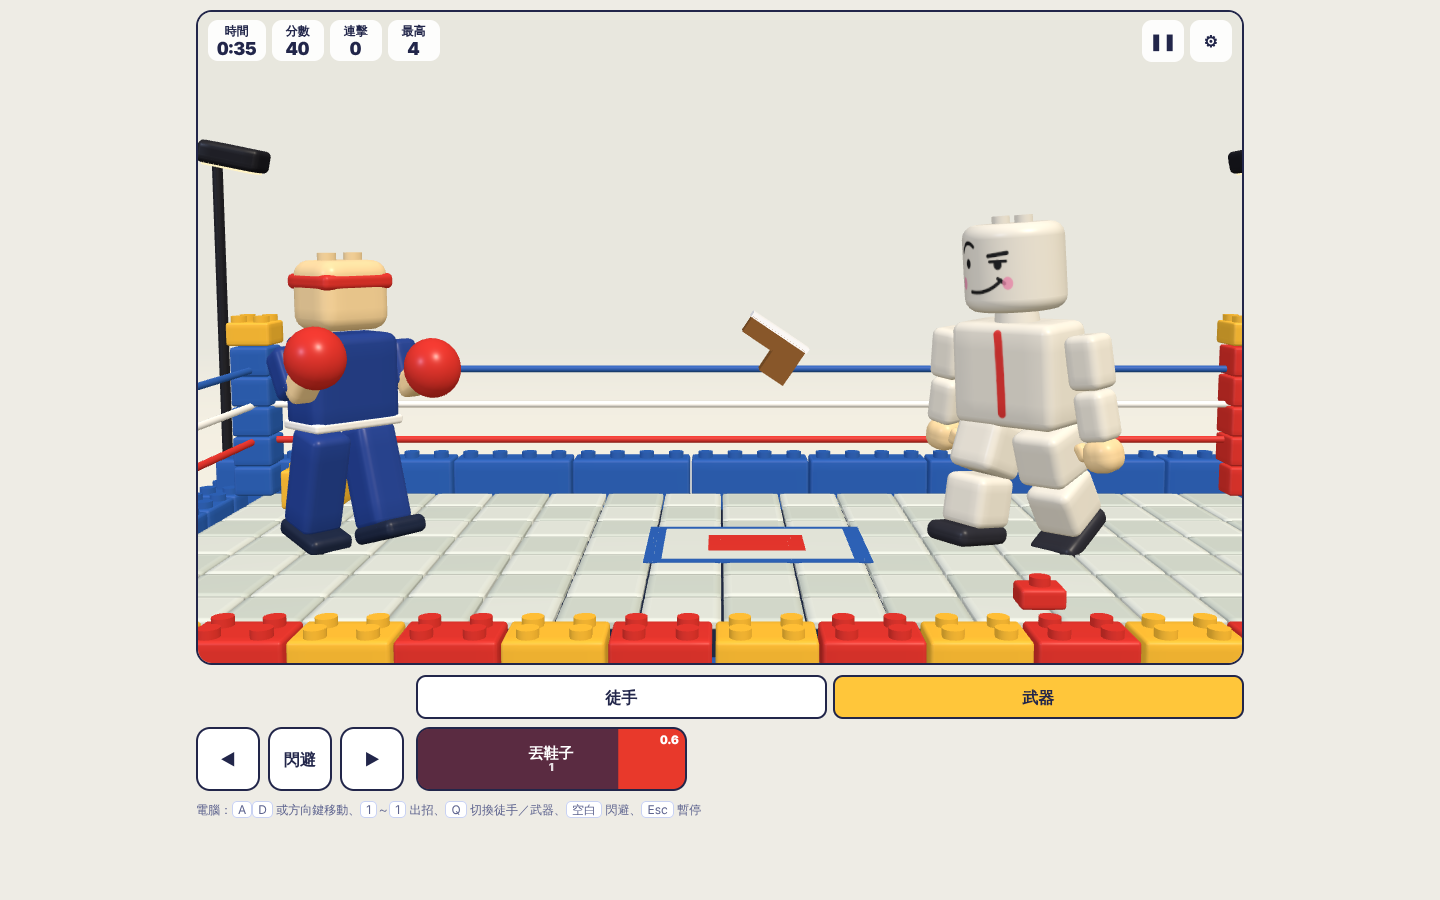
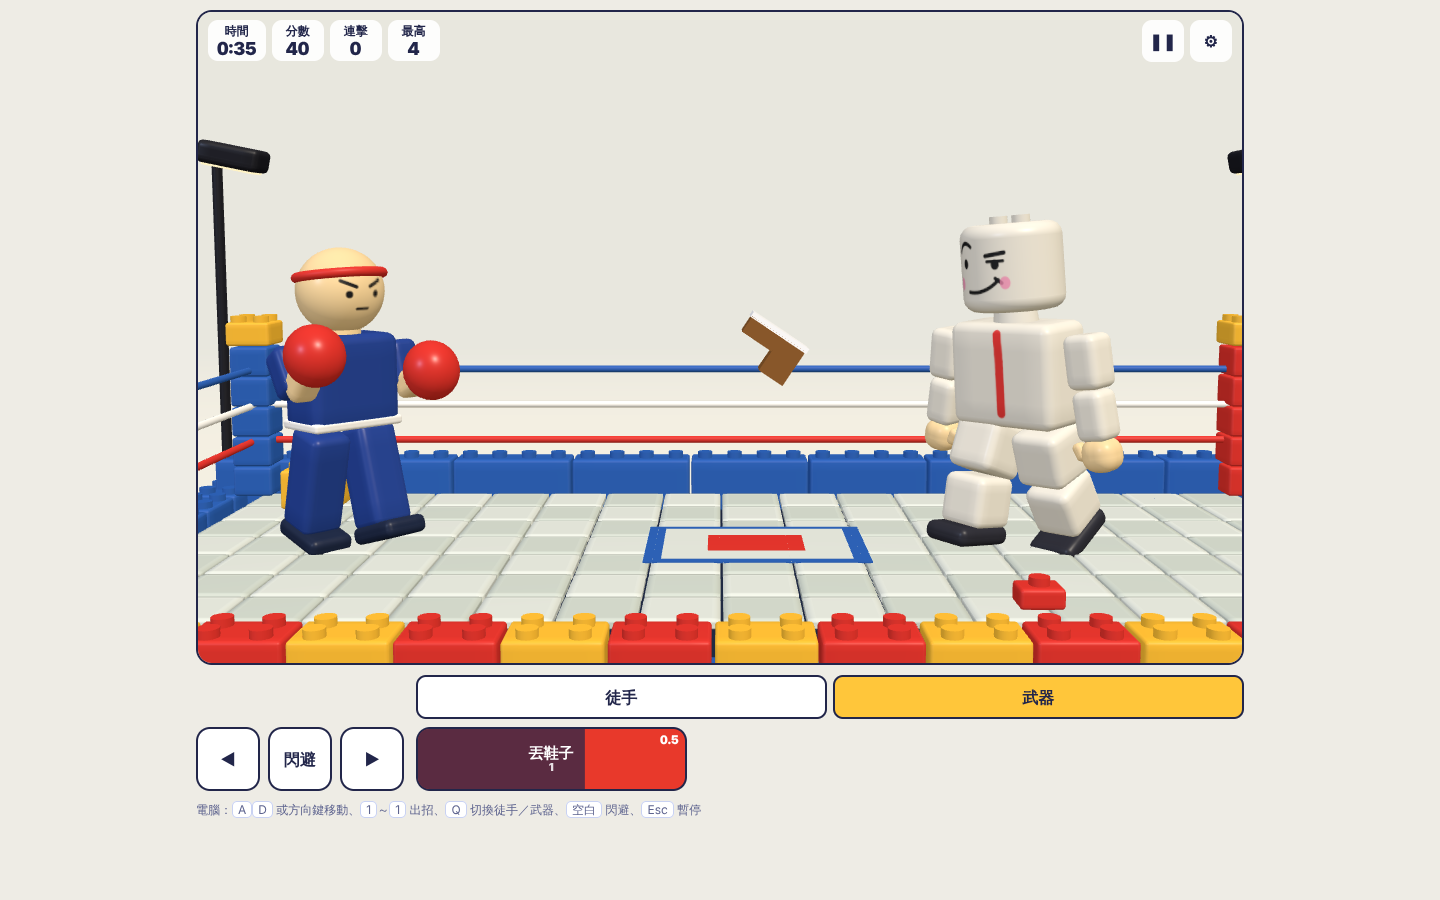
玩家球形頭與正義臉；一鍵隨機造型；復原紀錄壓縮單色面
Claude-Session: https://claude.ai/code/session_01W9KMAiYuezKnkxaZ7ikoB8

diff --git a/src/game/puppet/paintSurface.ts b/src/game/puppet/paintSurface.ts
@@ -5,7 +5,7 @@ import { History } from './history';
 import { DESIGN_SIZES, PAINT_PARTS, PART_DEFS, partFaceDims, type PaintPartId } from './parts';
 import { atlasHeight, atlasWidth, cellOrigin, DEFAULT_LAYOUT, faceDims, FACES, type Face, type FacePoint } from './faces';
 import type { AccessoryId, AccessorySlot } from './looks/accessories';
-import { lookById } from './looks/presets';
+import { lookById, looksOf, type LookPreset } from './looks/presets';
 
 export interface Surface {
   part: PaintPartId;
@@ -25,7 +25,9 @@ export interface BrushSpec {
 type FaceKey = `${PaintPartId}:${Face}`;
 type AccKey = `acc:${AccessorySlot}`;
 type HistKey = FaceKey | AccKey;
-type HistData = ImageData | AccessoryId | null;
+/** 整面同一色時只記顏色，大幅減少復原紀錄的記憶體 */
+type Solid = { solid: string };
+type HistData = ImageData | Solid | AccessoryId | null;
 export type AccessoryState = Record<AccessorySlot, AccessoryId | null>;
 
 /**
@@ -61,7 +63,7 @@ export class PaintStore {
       (key) => (isAcc(key) ? this.accessories[slotOf(key)] : this.captureFace(key)),
       (key, data) => {
         if (isAcc(key)) this.setAccessory(slotOf(key), data as AccessoryId | null);
-        else this.restoreFace(key, data as ImageData);
+        else this.restoreFace(key, data as ImageData | Solid);
       },
     );
   }
@@ -97,16 +99,29 @@ export class PaintStore {
     return [p as PaintPartId, Number(f) as Face];
   }
 
-  private captureFace(key: FaceKey): ImageData {
+  private captureFace(key: FaceKey): ImageData | Solid {
     const [part, f] = this.parse(key);
     const r = this.faceRect(f);
-    return this.surfaces[part].ctx.getImageData(r.x, r.y, r.w, r.h);
+    const img = this.surfaces[part].ctx.getImageData(r.x, r.y, r.w, r.h);
+    const d = img.data;
+    let same = true;
+    for (let i = 4; i < d.length; i += 4)
+      if (d[i] !== d[0] || d[i + 1] !== d[1] || d[i + 2] !== d[2] || d[i + 3] !== d[3]) {
+        same = false;
+        break;
+      }
+    if (same) return { solid: `rgba(${d[0]},${d[1]},${d[2]},${d[3] / 255})` };
+    return img;
   }
 
-  private restoreFace(key: FaceKey, data: ImageData) {
+  private restoreFace(key: FaceKey, data: ImageData | Solid) {
     const [part, f] = this.parse(key);
     const r = this.faceRect(f);
-    this.surfaces[part].ctx.putImageData(data, r.x, r.y);
+    const ctx = this.surfaces[part].ctx;
+    if ('solid' in data) {
+      ctx.fillStyle = data.solid;
+      ctx.fillRect(r.x, r.y, r.w, r.h);
+    } else ctx.putImageData(data, r.x, r.y);
     this.markDirty(part);
     this.touched.add(key);
   }
@@ -174,12 +189,20 @@ export class PaintStore {
   applyLook(id: string) {
     const look = lookById(id);
     if (!look) return;
-    const faceKeys: FaceKey[] = [];
+    this.history.record([...this.lookKeys(look), `acc:${look.kind}`]);
+    this.drawLook(look);
+    this.emit();
+  }
+
+  private lookKeys(look: LookPreset): FaceKey[] {
+    const keys: FaceKey[] = [];
     for (const part of Object.keys(look.paint) as PaintPartId[])
-      for (const f of Object.keys(look.paint[part]!).map(Number) as Face[]) faceKeys.push(`${part}:${f}`);
-    const accKey: AccKey = `acc:${look.kind}`;
-    this.history.record([...faceKeys, accKey]);
-    for (const k of faceKeys) {
+      for (const f of Object.keys(look.paint[part]!).map(Number) as Face[]) keys.push(`${part}:${f}`);
+    return keys;
+  }
+
+  private drawLook(look: LookPreset) {
+    for (const k of this.lookKeys(look)) {
       this.touched.add(k);
       const [part, f] = this.parse(k);
       const draw = look.paint[part]![f]!;
@@ -191,7 +214,31 @@ export class PaintStore {
       });
     }
     this.setAccessory(look.kind, look.accessory);
+  }
+
+  /**
+   * 一鍵隨機造型：先恢復空白，再隨機套一款臉、髮型、服裝（整個算 1 步，可復原）。
+   */
+  randomize(rand: () => number = Math.random) {
+    const pick = <T,>(list: T[]) => list[Math.floor(rand() * list.length)];
+    const chosen = (['face', 'hair', 'costume'] as const).map((k) => pick(looksOf(k)));
+    const keys = new Set<HistKey>([...this.touched, 'acc:face', 'acc:hair', 'acc:costume']);
+    for (const l of chosen) for (const k of this.lookKeys(l)) keys.add(k);
+    this.history.record([...keys]);
+    this.resetCanvases();
+    for (const l of chosen) this.drawLook(l);
     this.emit();
+    return chosen.map((l) => l.label);
+  }
+
+  private resetCanvases() {
+    for (const part of PAINT_PARTS) {
+      const s = this.surfaces[part];
+      s.ctx.fillStyle = PUPPET.baseColor;
+      s.ctx.fillRect(0, 0, s.canvas.width, s.canvas.height);
+      this.markDirty(part);
+    }
+    (['face', 'hair', 'costume'] as const).forEach((sl) => this.setAccessory(sl, null));
   }
 
   /** 拿掉某一類的 3D 配件（可復原）。 */
@@ -206,13 +253,7 @@ export class PaintStore {
   clearAll() {
     const keys: HistKey[] = [...this.touched, 'acc:face', 'acc:hair', 'acc:costume'];
     this.history.record(keys);
-    (['face', 'hair', 'costume'] as const).forEach((sl) => this.setAccessory(sl, null));
-    for (const part of PAINT_PARTS) {
-      const s = this.surfaces[part];
-      s.ctx.fillStyle = PUPPET.baseColor;
-      s.ctx.fillRect(0, 0, s.canvas.width, s.canvas.height);
-      this.markDirty(part);
-    }
+    this.resetCanvases();
     this.emit();
   }
 

diff --git a/src/game/player/playerModel.ts b/src/game/player/playerModel.ts
@@ -1,6 +1,7 @@
-import { Group, Mesh, SphereGeometry, type Object3D } from 'three';
+import { CanvasTexture, CylinderGeometry, Group, Mesh, MeshStandardMaterial, SphereGeometry, SRGBColorSpace, TorusGeometry, type Object3D } from 'three';
 import { plastic } from '../three/color';
-import { cachedRoundedBox, studGeometry } from '../three/geometry';
+import { srgb } from '../three/color';
+import { cachedRoundedBox } from '../three/geometry';
 
 export const PLAYER_COLORS = {
   suit: '#24408E',
@@ -23,7 +24,48 @@ export interface PlayerRig {
   gloveR: Mesh;
 }
 
-/** 玩家角色：深藍運動服、白色腰線、紅色拳套與頭帶，臉部不畫五官。 */
+let faceMat: MeshStandardMaterial | null = null;
+/** 正義臉 (・`_´・)：畫在球面貼圖的正面（u＝0.25 是 +Z） */
+function justiceFaceMaterial(): MeshStandardMaterial {
+  if (faceMat) return faceMat;
+  const skin = PLAYER_COLORS.skin;
+  const cv = document.createElement('canvas');
+  cv.width = 512;
+  cv.height = 256;
+  const c = cv.getContext('2d');
+  if (!c) return (faceMat = new MeshStandardMaterial({ color: srgb(skin), roughness: 0.32, metalness: 0 }));
+  c.fillStyle = skin;
+  c.fillRect(0, 0, 512, 256);
+  const cx = 128;
+  c.strokeStyle = '#1E1E1E';
+  c.fillStyle = '#1E1E1E';
+  c.lineCap = 'round';
+  // 往中間壓低的濃眉 ` ´
+  c.lineWidth = 7;
+  c.beginPath();
+  c.moveTo(cx - 44, 106);
+  c.lineTo(cx - 14, 118);
+  c.moveTo(cx + 44, 106);
+  c.lineTo(cx + 14, 118);
+  c.stroke();
+  // 黑豆眼 ・ ・
+  for (const dx of [-28, 28]) {
+    c.beginPath();
+    c.arc(cx + dx, 132, 7, 0, Math.PI * 2);
+    c.fill();
+  }
+  // 緊閉的一字嘴 _
+  c.lineWidth = 6;
+  c.beginPath();
+  c.moveTo(cx - 12, 160);
+  c.lineTo(cx + 12, 160);
+  c.stroke();
+  const tex = new CanvasTexture(cv);
+  tex.colorSpace = SRGBColorSpace;
+  return (faceMat = new MeshStandardMaterial({ map: tex, roughness: 0.32, metalness: 0 }));
+}
+
+/** 玩家角色：深藍運動服、白色腰線、紅色拳套與頭帶；球形頭、正義臉。 */
 export function buildPlayer(shadows = true): PlayerRig {
   const C = PLAYER_COLORS;
   const root = new Group();
@@ -52,15 +94,20 @@ export function buildPlayer(shadows = true): PlayerRig {
   body.add(torso);
   box(1.4, 1.36, 0.88, 0.16, C.suit, torso, 0, 0.68);
   box(1.42, 0.14, 0.9, 0.05, C.trim, torso, 0, 0.08);
-  const head = box(1.08, 1.0, 1.0, 0.22, C.skin, torso, 0, 1.92);
-  for (let i = 0; i < 2; i++) {
-    const s = new Mesh(studGeometry(), plastic(C.skin));
-    s.position.set((i - 0.5) * 0.42, 0.55, 0);
-    s.castShadow = shadows;
-    head.add(s);
-  }
-  box(1.12, 0.22, 1.04, 0.08, C.red, head, 0, 0.2);
-  const tail = box(0.14, 0.42, 0.12, 0.05, C.red, head, 0, 0.08, -0.56);
+  // 球形頭＋正義臉 (・`_´・)，紅頭帶繞一圈
+  const neck = new Mesh(new CylinderGeometry(0.26, 0.28, 0.2, 18), plastic(C.skin));
+  neck.position.y = 1.44;
+  torso.add(neck);
+  const head = new Mesh(new SphereGeometry(0.62, 36, 24), justiceFaceMaterial());
+  head.position.set(0, 1.98, 0);
+  head.castShadow = shadows;
+  torso.add(head);
+  const band = new Mesh(new TorusGeometry(0.6, 0.07, 10, 36), plastic(C.red));
+  band.rotation.x = Math.PI / 2 - 0.12;
+  band.position.y = 0.22;
+  band.castShadow = shadows;
+  head.add(band);
+  const tail = box(0.14, 0.42, 0.12, 0.05, C.red, head, 0, 0.12, -0.62);
   tail.rotation.x = 0.6;
   const arms: Group[] = [];
   const elbows: Group[] = [];

diff --git a/tests/e2e/flow.spec.ts b/tests/e2e/flow.spec.ts
@@ -168,3 +168,21 @@ test('立體肚子可以作畫（畫進軀幹正面）', async ({ page }) => {
   expect(await purple()).toBeGreaterThan(100);
   await expect(page.getByRole('status').filter({ hasText: '正在畫：軀幹' })).toBeVisible();
 });
+
+test('一鍵隨機造型：換上臉、髮型、服裝，算一步可復原', async ({ page }) => {
+  const errors = watchConsole(page);
+  await fillWanted(page);
+  const b = bt(page);
+  await drag(page, (await b.point('torso', 4, 0.2, 0.2))!, (await b.point('torso', 4, 0.8, 0.2))!);
+  const mine = await b.painted('torso', 4);
+  await page.getByTestId('random-look').click();
+  await expect(page.getByText(/隨機造型：.+＋.+＋.+/)).toBeVisible();
+  expect(await b.painted('head', 4)).toBeGreaterThan(0);
+  await page.getByTestId('random-look').click();
+  await page.getByRole('button', { name: '復原', exact: true }).click();
+  await page.getByRole('button', { name: '復原', exact: true }).click();
+  // 回到隨機之前：只剩自己畫的那一筆
+  expect(await b.painted('torso', 4)).toBe(mine);
+  expect(await b.painted('head', 4)).toBe(0);
+  expect(errors).toEqual([]);
+});

diff --git a/src/screens/PaintScreen.tsx b/src/screens/PaintScreen.tsx
@@ -152,6 +152,21 @@ export function PaintScreen() {
                 />
               ))}
             </div>
+            <div className="btn-row">
+              <button
+                type="button"
+                className="btn"
+                disabled={finishing}
+                data-testid="random-look"
+                onClick={() => {
+                  const names = paint.randomize();
+                  ctrl.current?.faceFront();
+                  setStatus(`隨機造型：${names.join('＋')}`);
+                }}
+              >
+                🎲 一鍵隨機造型
+              </button>
+            </div>
             {acc[lookKind] && (
               <button type="button" className="btn small" onClick={() => paint.removeAccessory(lookKind)} disabled={finishing}>
                 拿掉立體配件

diff --git a/PLAN.md b/PLAN.md
@@ -229,3 +229,8 @@ interface HitEvent { hitId: HitId; moveId: MoveId; segment: number; at: number; 
 - 修正：圓角方塊的 UV 改為依實際位置線性分配（原本外側約 60% 的貼圖落在圓角上，靠邊作畫會被壓扁）。
 - 人偶比例調整（使用者參考圖）：頭變大、加短脖子（顏色取頭底部）、腿變短粗，總高仍 4.8；不加新部位。頭改為圓角圓柱：側面依方向分成正面／右／背面／左四格，頂、底各一格，沿用 3×2 圖集，每格寬度為四分之一圓周弧長。為了維持原創造型（SPEC 第 4 節），保留頭頂兩顆並排凸點、圓角方塊身體、連指手套手，不採用梯形身體與 C 型手。
 - 非人生物強化：尖叫雞（圓頂、凸眼、喇叭嘴、翅膀、雞爪）、豬（大豬鼻、耳朵、豬蹄）、恐龍（長嘴與牙、背刺、往側後方甩的尾巴、爪子）、雞／豬／恐龍裝都有立體肚子。
+- 立體肚子可彩繪：肚子的 UV 投影到軀幹正面那一格，在肚子上畫＝畫在軀幹正面。
+- 對戰站姿：擂台上木偶轉身面向玩家（約 49°），玩家與木偶都是前後腳；彩繪室維持正面站直。
+- 玩家積木人：球形頭＋正義臉 (・`_´・)（使用者要求，取代 SPEC 第 4 節「臉部不畫五官」）。
+- 一鍵隨機造型：先恢復空白，再隨機套臉、髮型、服裝各一款，算 1 步可復原。
+- 復原紀錄：整面同一色的格子只記顏色，避免套服裝時每步吃掉十幾 MB。
